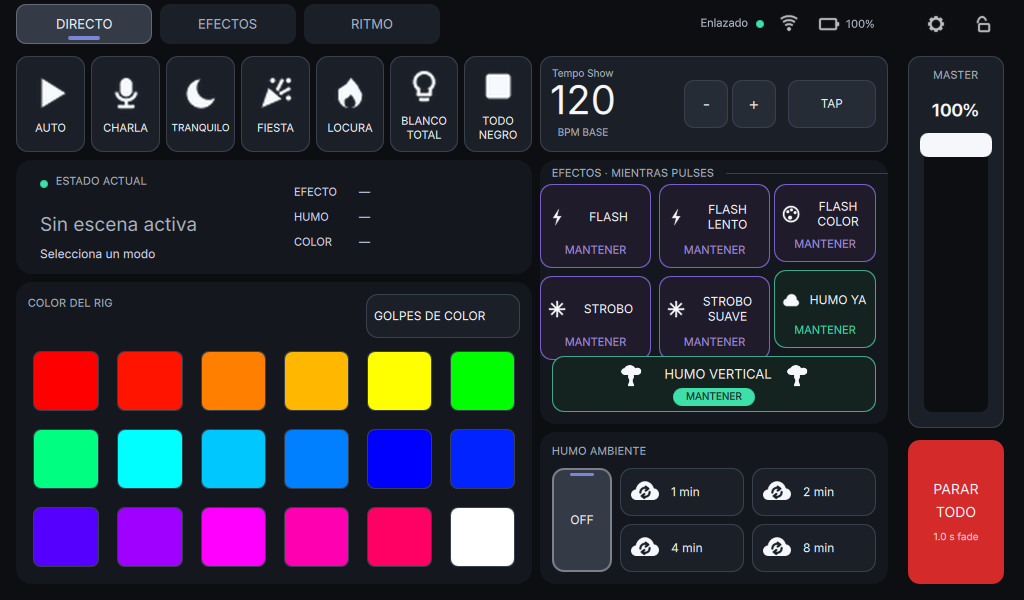
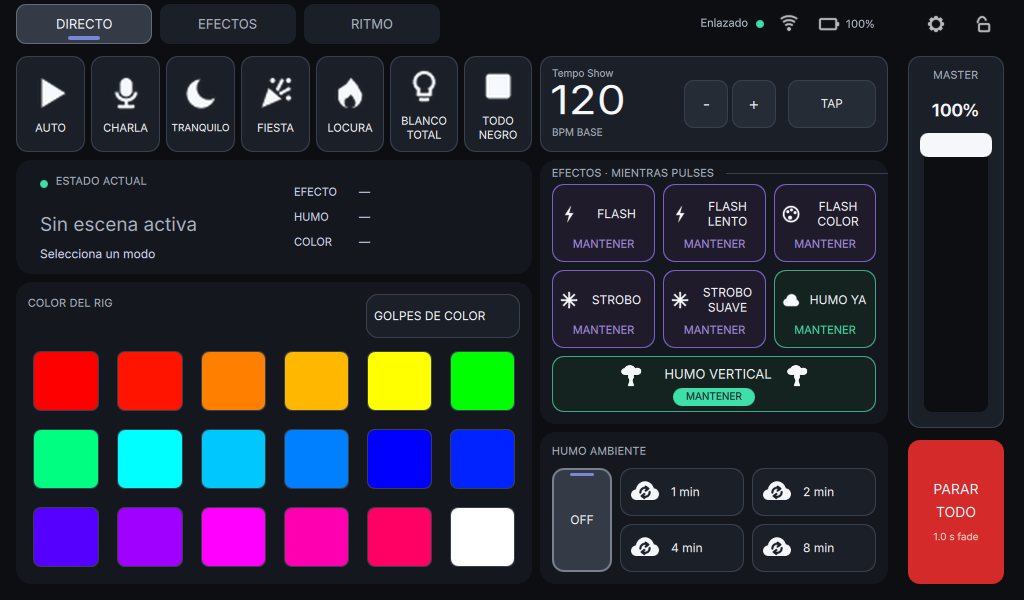
Align all effect pads and widen the tempo numerals
The Mac preview bridge used the wrong legacy pad widths, so most effects were not translated and Humo Ya overlapped the wide fog pad. Match the installed backend rectangles, assert all seven translations and row gaps, and align the wider BPM numerals with both captions in the captured Qt view.

Changed region(s): [[0.5312, 0.3, 0.75, 0.6], [0.5312, 0.12, 0.625, 0.24]]

diff --git a/qt/qml/TempoTileContent.qml b/qt/qml/TempoTileContent.qml
@@ -4,6 +4,7 @@ Item {
     id: content
     required property string label
     required property string bpm
+    readonly property real bpmStretch: 1.15
 
     Text {
         objectName: "align-left:direct-tempo"
@@ -15,10 +16,9 @@ Item {
     Item {
         id: bpmAxis
         objectName: "align-left:direct-tempo"
-        x: 12; y: 19; width: bpmValue.width; height: 50
+        x: 12; y: 19; width: bpmValue.width * content.bpmStretch; height: 50
         Text {
             id: bpmValue
-            objectName: "align-center:direct-tempo-bpm"
             // Inter's large numerals start two rendered pixels inside the shared axis.
             x: -2; width: implicitWidth; height: parent.height
             text: content.bpm
@@ -26,15 +26,16 @@ Item {
             font.family: "Inter"; font.pixelSize: 40; font.bold: true
             horizontalAlignment: Text.AlignLeft
             verticalAlignment: Text.AlignVCenter
+            transform: Scale { origin.x: 0; xScale: content.bpmStretch }
         }
     }
     Text {
-        objectName: "align-center:direct-tempo-bpm"
-        x: bpmAxis.x + bpmValue.x + (bpmValue.width - width) / 2; y: 70
-        width: Math.max(implicitWidth, bpmValue.width)
+        objectName: "align-left:direct-tempo"
+        x: bpmAxis.x; y: 70
+        width: implicitWidth
         text: "BPM BASE"
         color: "#adb6c4"
         font.family: "Inter"; font.pixelSize: 10
-        horizontalAlignment: Text.AlignHCenter
+        horizontalAlignment: Text.AlignLeft
     }
 }

diff --git a/tests/qt_layout_preview_bridge_test.py b/tests/qt_layout_preview_bridge_test.py
@@ -10,14 +10,14 @@ class QtLayoutPreviewBridgeTest(unittest.TestCase):
     def test_legacy_layout_translates_snapshots_and_touches(self):
         bridge = QtLayoutPreviewBridge()
         state = {"controls": [
-            {"label": "FLASH", "x": 540, "y": 184, "w": 110, "h": 84},
+            {"label": "FLASH", "x": 540, "y": 184, "w": 111, "h": 84},
             {"label": "AUTO", "x": 16, "y": 56, "w": 68, "h": 96},
         ]}
         rewritten = json.loads(bridge.state_line("@STATE " + json.dumps(state) + "\n")[7:])
         self.assertEqual([rewritten["controls"][0][key] for key in ("x", "y", "w", "h")],
                          [552, 184, 103, 78])
         self.assertEqual(rewritten["controls"][1], state["controls"][1])
-        self.assertEqual(bridge.touch_line("D 0 610 210 123\n"), "D 0 601 212 123\n")
+        self.assertEqual(bridge.touch_line("D 0 610 210 123\n"), "D 0 602 212 123\n")
         self.assertEqual(bridge.touch_line("D 0 543 210 123\n"), "D 0 -1 -1 123\n")
         self.assertEqual(bridge.touch_line("D 0 66 90 123\n"), "D 0 66 90 123\n")
 
@@ -30,8 +30,16 @@ class QtLayoutPreviewBridgeTest(unittest.TestCase):
 
     def test_each_effect_stays_inside_its_original_touch_rectangle(self):
         bridge = QtLayoutPreviewBridge()
-        bridge.legacy_layout = True
-        for old, new in bridge.rectangles.values():
+        self.assertEqual(len(bridge.rectangles), 7)
+        controls = []
+        for label, (old, _) in bridge.rectangles.items():
+            controls.append({"label": label, "x": old[0], "y": old[1],
+                             "w": old[2], "h": old[3]})
+        state = {"controls": controls}
+        rewritten = json.loads(bridge.state_line("@STATE " + json.dumps(state) + "\n")[7:])
+        for control, (old, new) in zip(rewritten["controls"], bridge.rectangles.values()):
+            with self.subTest(snapshot=control["label"]):
+                self.assertEqual(tuple(control[key] for key in ("x", "y", "w", "h")), new)
             x, y = new[0] + new[2] // 2, new[1] + new[3] // 2
             translated = bridge.touch_line(f"D 0 {x} {y} 123\n").split()
             old_x, old_y = map(int, translated[2:4])
@@ -40,6 +48,13 @@ class QtLayoutPreviewBridgeTest(unittest.TestCase):
                 self.assertLess(old_x, old[0] + old[2])
                 self.assertLessEqual(old[1], old_y)
                 self.assertLess(old_y, old[1] + old[3])
+
+    def test_effect_rows_have_even_gaps(self):
+        rectangles = [pair[1] for pair in QtLayoutPreviewBridge.rectangles.values()]
+        for first, second in zip(rectangles[:3], rectangles[3:6]):
+            self.assertEqual(second[1] - (first[1] + first[3]), 8)
+        self.assertEqual(rectangles[6][1] - (rectangles[3][1] + rectangles[3][3]), 8)
+        self.assertEqual(rectangles[6][1] - (rectangles[5][1] + rectangles[5][3]), 8)
 
 
 if __name__ == "__main__":

diff --git a/tests/qt_layout_preview_bridge.py b/tests/qt_layout_preview_bridge.py
@@ -15,11 +15,11 @@ import threading
 
 class QtLayoutPreviewBridge:
     rectangles = {
-        "FLASH": ((540, 184, 110, 84), (552, 184, 103, 78)),
-        "FLASH LENTO": ((659, 184, 110, 84), (663, 184, 103, 78)),
+        "FLASH": ((540, 184, 111, 84), (552, 184, 103, 78)),
+        "FLASH LENTO": ((659, 184, 111, 84), (663, 184, 103, 78)),
         "FLASH COLOR": ((778, 184, 110, 84), (774, 184, 102, 78)),
-        "STROBO": ((540, 276, 110, 84), (552, 270, 103, 78)),
-        "STROBO SUAVE": ((659, 276, 110, 84), (663, 270, 103, 78)),
+        "STROBO": ((540, 276, 111, 84), (552, 270, 103, 78)),
+        "STROBO SUAVE": ((659, 276, 111, 84), (663, 270, 103, 78)),
         "HUMO YA": ((778, 276, 110, 84), (774, 270, 102, 78)),
         "HUMO VERT": ((540, 368, 348, 56), (552, 356, 324, 56)),
     }

diff --git a/qt/check_tempo_alignment.py b/qt/check_tempo_alignment.py
@@ -31,10 +31,10 @@ def main() -> int:
         bounds.append((left, right))
         print(f"{name}: {left}..{right} px")
 
-    left_offset = abs(bounds[0][0] - bounds[1][0])
-    center_offset = abs((bounds[1][0] + bounds[1][1] - bounds[2][0] - bounds[2][1]) / 2)
-    print(f"left offset: {left_offset} px; BPM Base center offset: {center_offset:.1f} px")
-    return 0 if left_offset <= 1 and center_offset <= 1 else 1
+    bpm_offset = abs(bounds[0][0] - bounds[1][0])
+    base_offset = abs(bounds[0][0] - bounds[2][0])
+    print(f"BPM left offset: {bpm_offset} px; BPM Base left offset: {base_offset} px")
+    return 0 if bpm_offset <= 1 and base_offset <= 1 else 1
 
 
 if __name__ == "__main__":

diff --git a/qt/README.md b/qt/README.md
@@ -50,14 +50,15 @@ using the revised C layout coordinates: all seven effects have 12 px between
 their edges and the panel, with the wide fog pad clear of the bottom edge.
 The buttons' touch rectangles use those same coordinates. The tablet backend
 still needs a new build before it will supply the revised layout to Qt.
-`docs/evidence/qt-tempo-alignment-2026-10-22.png` shows the current Mac tempo
-render. `python3 qt/check_tempo_alignment.py /path/to/directo-capture.png`
-checks the visible left edges of Tempo Show and BPM and the shared BPM/Base
-center in a fresh 1024x600 capture; the current render has zero offset on
-both axes.
+`docs/evidence/qt-tempo-alignment-2026-10-22.png` records the earlier centered
+BPM Base treatment. Run the pixel check with
+`python3 qt/check_tempo_alignment.py /path/to/directo-capture.png`; it checks
+the visible left edges of Tempo Show, BPM and BPM Base in a fresh 1024x600
+capture. The integrated render has zero offset for both labels.
 `docs/evidence/qt-desk-mac-integrated-2026-10-22.png` shows the full Mac desk
-with the revised effects layout and tempo tile in one window. The installed
-tablet backend still reports the earlier effect rectangles, so this preview
+with three aligned effects rows and the wider BPM numerals in one window.
+All three tempo lines share one visible left edge. The installed tablet
+backend still reports the earlier effect rectangles, so this preview
 uses `tests/qt_layout_preview_bridge.py` to translate those seven rectangles
 and their touches against the mock master. The bridge is only for preview;
 the tablet needs its backend rebuilt to use the new layout directly.

diff --git a/TODO.md b/TODO.md
@@ -54,11 +54,12 @@ Nothing open.
   1.64 px vertical imbalance in those icons, now reduced to 0.36 px; the
   selected swatch also uses its outline without a check mark. The latest Mac
   pass puts 12 px of padding around the effects in the shared C layout and
-  aligns the rendered Tempo Show/BPM left edges and BPM/Base centers. The
-  full Mac preview now shows both changes using a tested touch/snapshot bridge
-  for the older installed backend; the screenshot and runtime audit confirm
-  the integrated layout. The tablet still runs the previous backend build.
-  Next: resume the preserved
+  aligns the rendered Tempo Show/BPM left edges. A later Mac capture exposed
+  an incomplete preview translation that left Humo Ya overlapping Humo
+  vertical. The bridge now translates all seven rectangles, tests their row
+  gaps, and the full Mac screenshot shows aligned effects. BPM numerals are
+  wider, and Tempo Show, BPM and BPM Base have the same visible left edge.
+  The tablet still runs the previous backend build. Next: resume the preserved
   Buildroot build, check the new layout on the physical panel, and verify
   remaining tablet gestures before considering any default-interface change.
 - [~] **Confirm white and colour bursts on the physical rig.**
